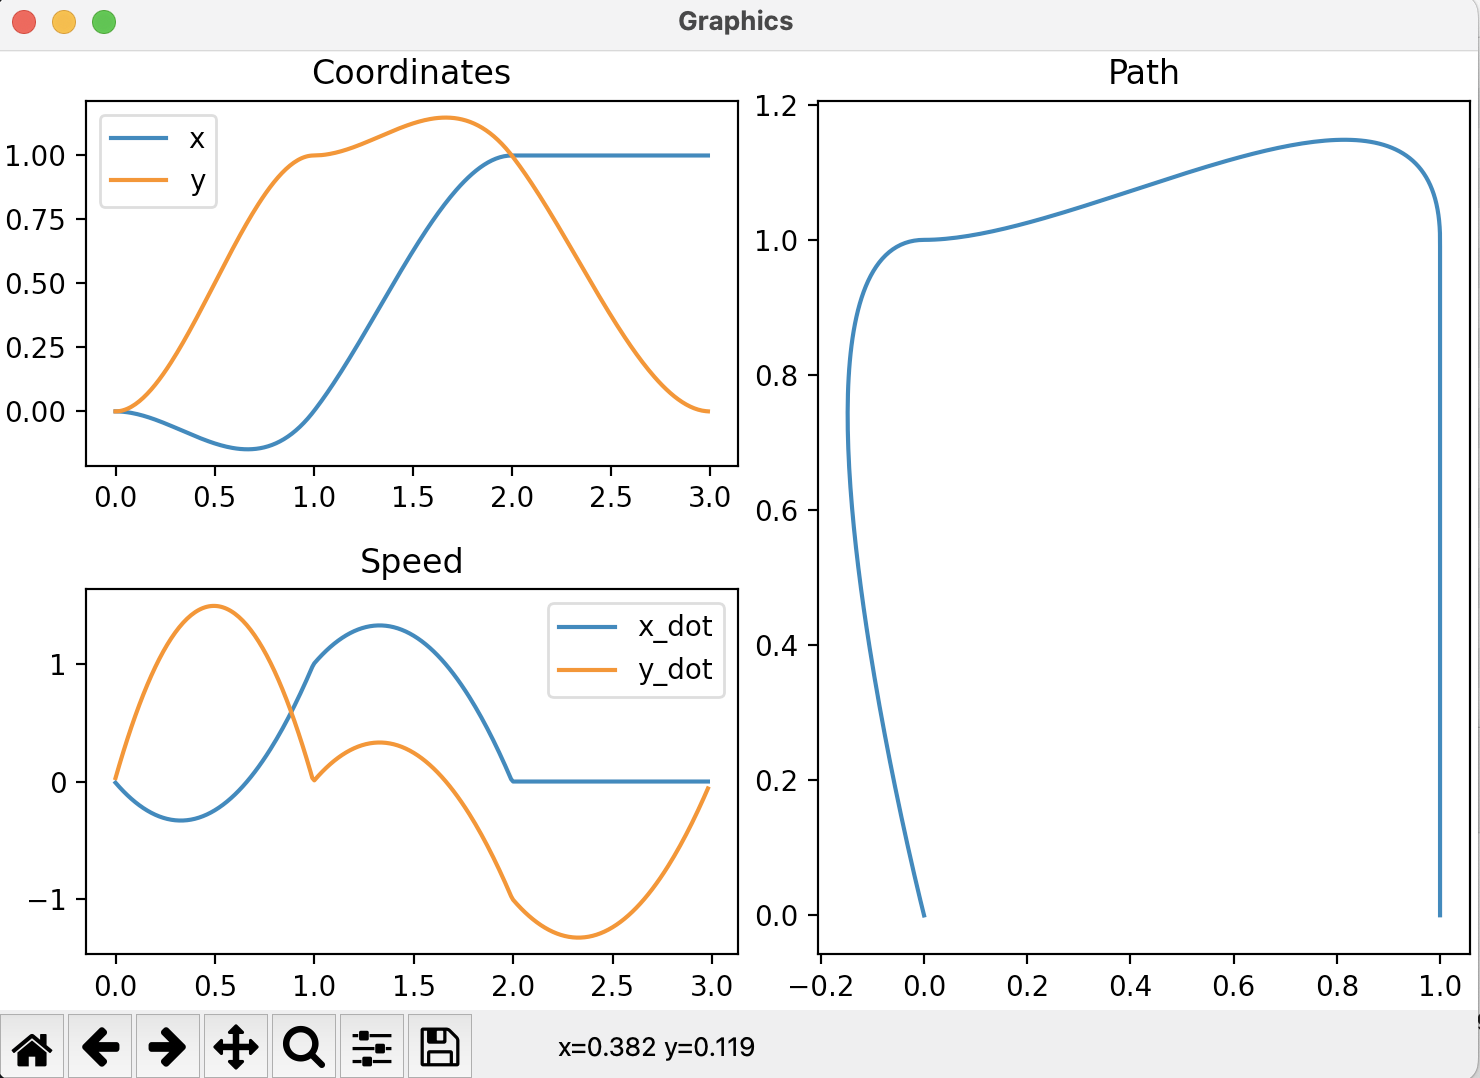
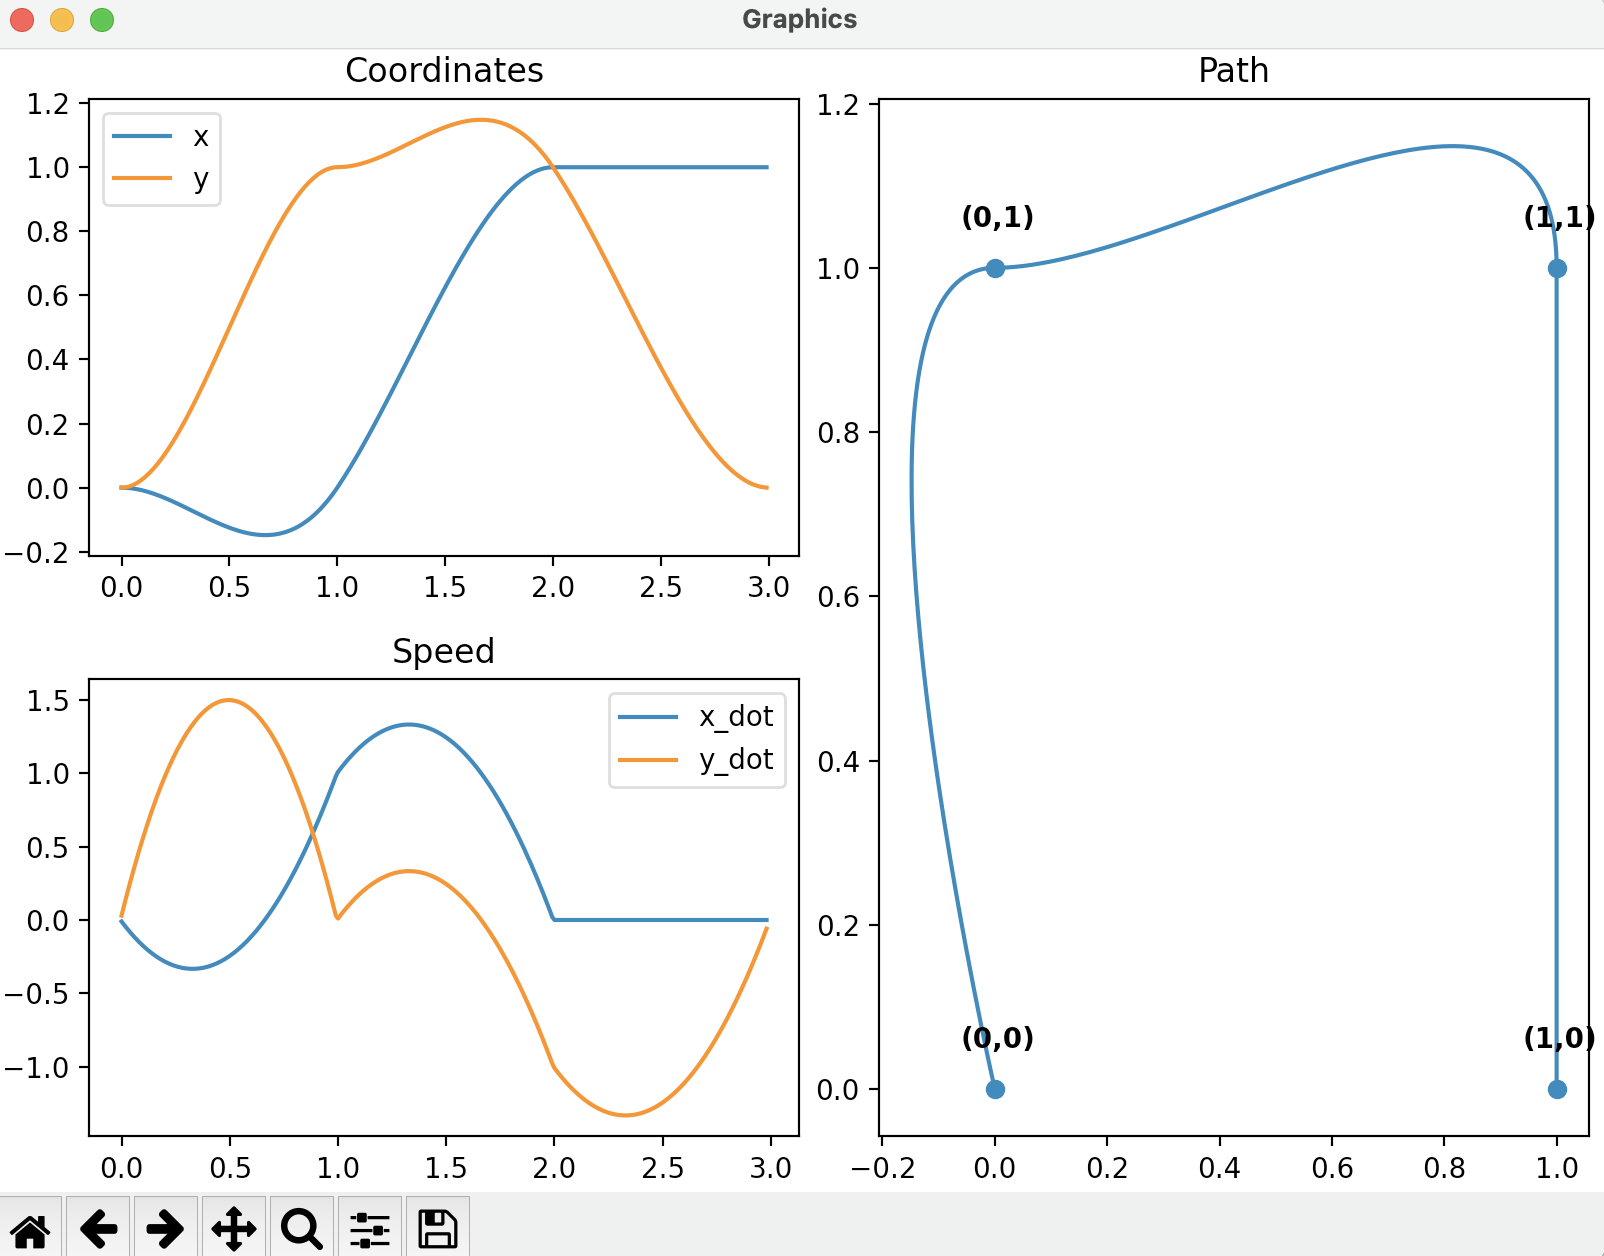
Add point on the graphic

diff --git a/graphics.py b/graphics.py
@@ -31,6 +31,13 @@ def plot_graphics(data: list[TimeMoments], function: Callable):
 
     axis["right"].plot(y[:, 0], y[:, 1])
     axis["right"].set_title("Path")
+    coordinates = [moment.characteristics.b for moment in data]
+    coordinates_x = [coordinate[0] for coordinate in coordinates]
+    coordinates_y = [coordinate[1] for coordinate in coordinates]
+    axis["right"].scatter(coordinates_x, coordinates_y)
+    for coordinate_x, coordinate_y in zip(coordinates_x, coordinates_y):
+        text = f"({coordinate_x},{coordinate_y})"
+        axis["right"].text(coordinate_x - 0.06, coordinate_y + 0.05, text, weight="bold")
 
     plt.gcf().canvas.set_window_title("Graphics")
     plt.show()
